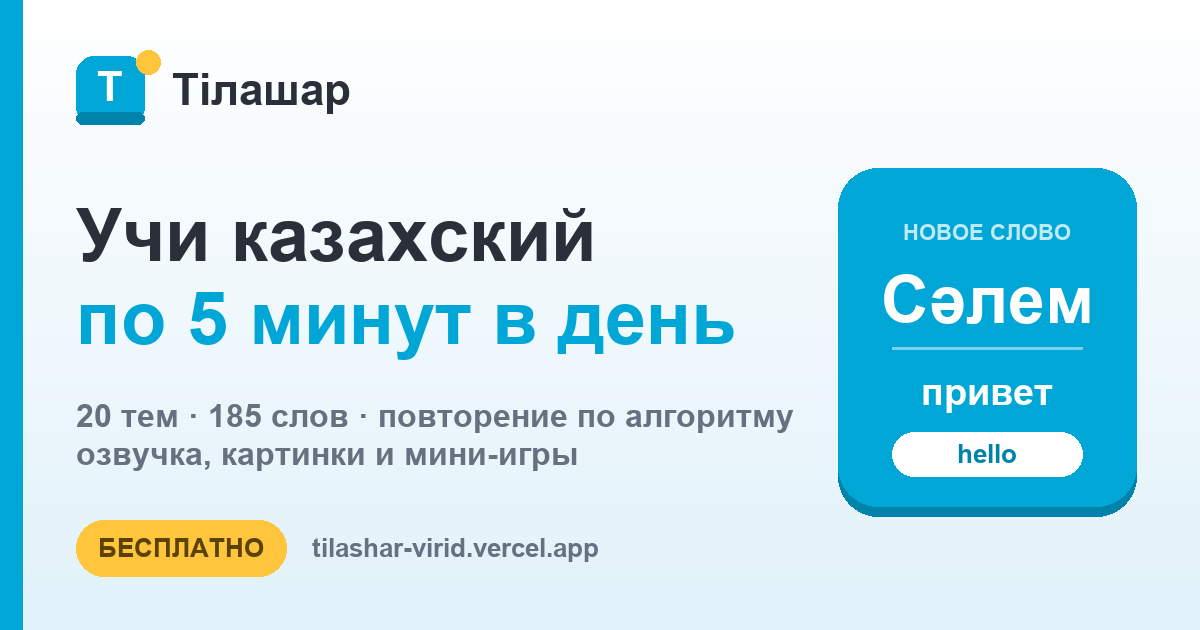
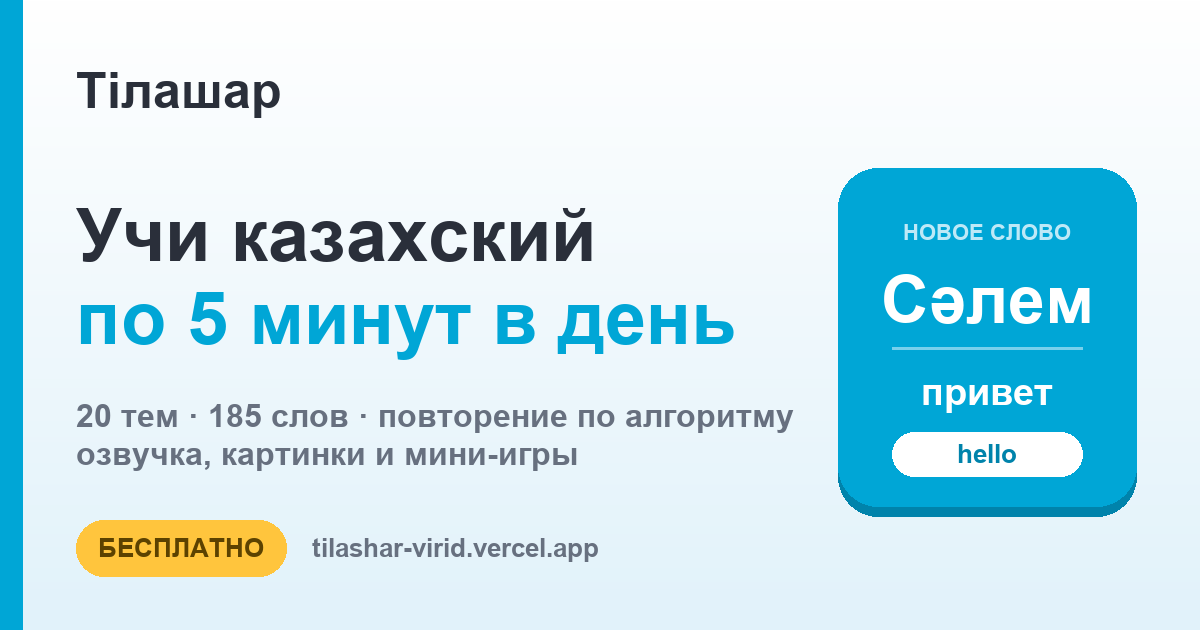
brand: drop the leopard mark, keep the wordmark
Header and footer are now just "Тілашар" — no emoji badge. The share
image lost its badge too so the lockup matches everywhere. The favicon
stays a square "Т" because a favicon cannot be a wordmark.

🐆 survives only where it belongs: as the course word Барыс.
Barys the mascot is untouched — it is the app's character, not the logo.

Service worker VERSION bumped so viewers get the new page rather than
the cached one.

Changed region(s): [[0.0617, 0.0603, 0.3083, 0.2111]]

diff --git a/index.html b/index.html
@@ -73,7 +73,7 @@
 <!-- ══ NAV ═══════════════════════════════════════════════════════ -->
 <header class="nav">
   <div class="nav__in">
-    <a class="logo" href="/"><span class="logo__mark">🐆</span>Тілашар</a>
+    <a class="logo" href="/">Тілашар</a>
     <nav class="nav__links">
       <a href="#how" data-en="How it works">Как это работает</a>
       <a href="#features" data-en="Features">Возможности</a>
@@ -252,7 +252,7 @@
 <!-- ══ FOOTER ════════════════════════════════════════════════════ -->
 <footer class="foot2">
   <div class="wrap foot2__in">
-    <a class="logo" href="/"><span class="logo__mark">🐆</span>Тілашар</a>
+    <a class="logo" href="/">Тілашар</a>
     <p data-en="A free Kazakh learning app. Mascot: Barys, the snow leopard.">Бесплатное приложение для изучения казахского языка. Талисман — снежный барс Барыс.</p>
     <nav>
       <a href="app.html" data-en="Open the app">Открыть приложение</a>

diff --git a/assets/landing.css b/assets/landing.css
@@ -10,9 +10,9 @@ section{padding-block:clamp(52px,8vw,86px);scroll-margin-top:78px}
 /* ── NAV ────────────────────────────────────────────────────────── */
 .nav{position:sticky;top:0;z-index:40;background:var(--panel);border-bottom:3px solid var(--cloud)}
 .nav__in{max-width:1080px;margin:0 auto;padding:12px 20px;display:flex;align-items:center;gap:14px}
-.logo{display:flex;align-items:center;gap:9px;font-weight:900;font-size:1.22rem;letter-spacing:-.03em;color:var(--ink)}
-.logo__mark{width:36px;height:36px;border-radius:11px;display:flex;align-items:center;justify-content:center;
-  background:var(--brand);border-bottom:3px solid var(--brand-dk);font-size:1.1rem}
+.logo{display:inline-flex;align-items:center;font-weight:900;font-size:1.34rem;
+  letter-spacing:-.035em;color:var(--ink)}
+.logo:hover{color:var(--brand)}
 .nav__links{display:flex;gap:22px;margin-left:22px}
 .nav__links a{font-weight:800;font-size:.92rem;color:var(--slate)}
 .nav__links a:hover{color:var(--brand)}

diff --git a/sw.js b/sw.js
@@ -11,7 +11,7 @@
      · audio-manifest  network-first  -> new clips must be noticed
    Bump VERSION on any change here; old caches are deleted on activate.
    ===================================================================== */
-const VERSION = "tilashar-v3.1";
+const VERSION = "tilashar-v3.2";
 const SHELL = `${VERSION}-shell`;
 const MEDIA = `${VERSION}-media`;
 
